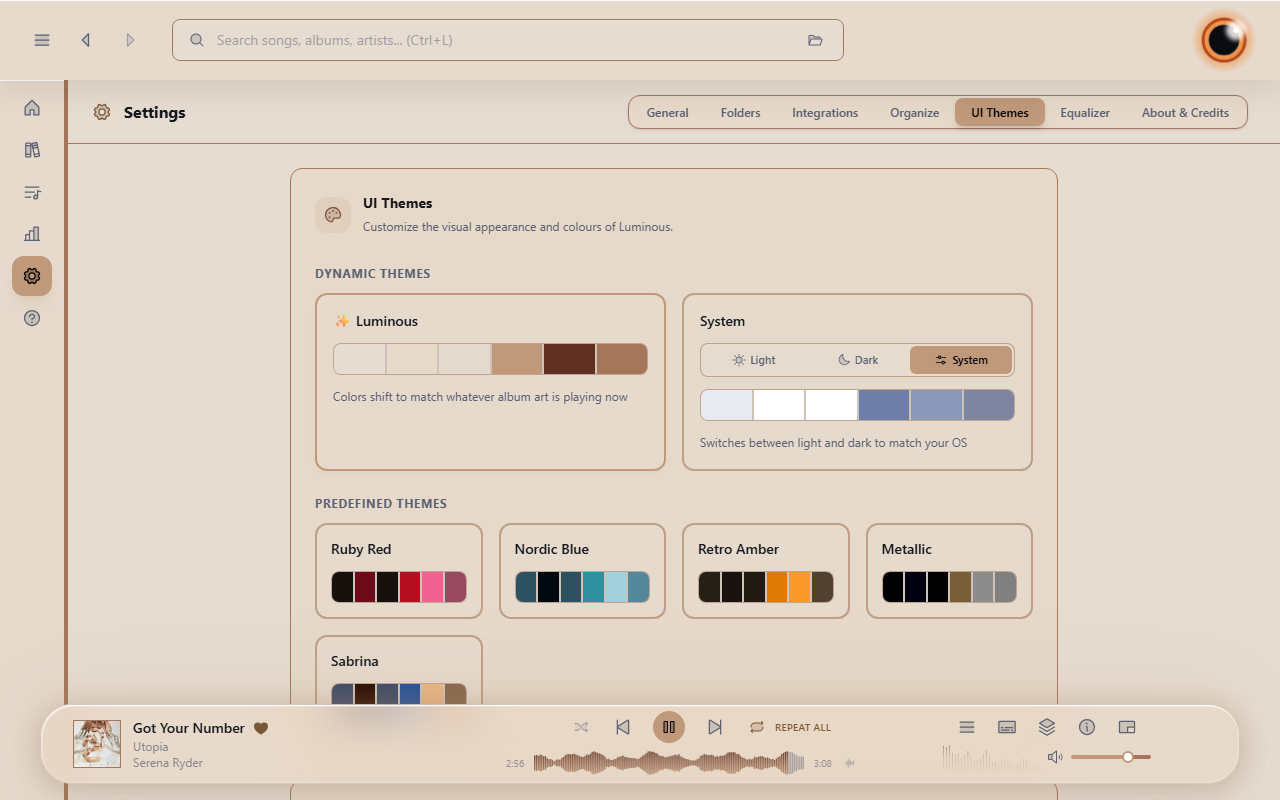
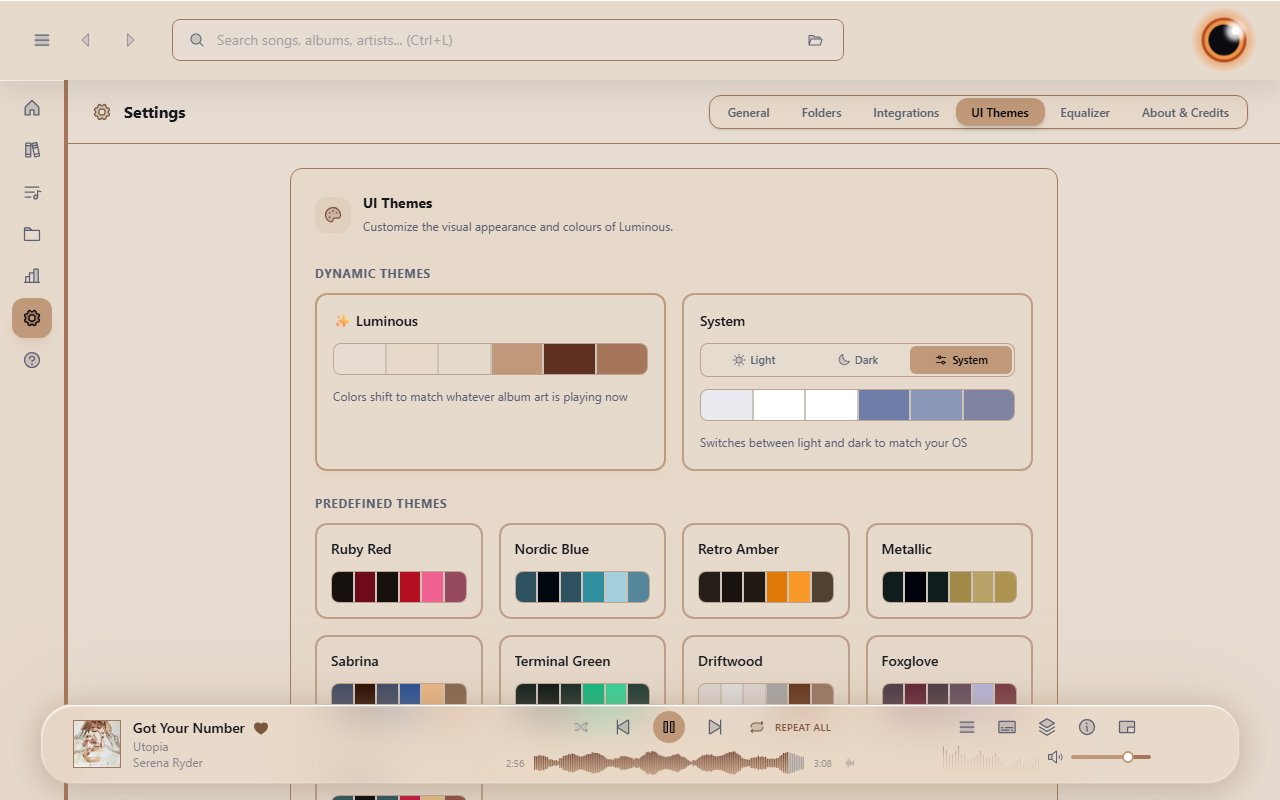
feat: refresh Metallic theme and add four new predefined themes
Updates the Metallic preset to a new gold/dark palette and adds Terminal
Green, Driftwood, Foxglove, and Mothman as predefined themes, with EN/FR
locale entries. Also nudges the Help view's "Restart Feature Walkthrough"
button rightward for breathing room against the scrollbar, and updates
the user guide manuals/screenshots to reflect the new theme lineup.

diff --git a/docs/user-guide/luminous-user-guide-FR.dc.html b/docs/user-guide/luminous-user-guide-FR.dc.html
@@ -31,10 +31,6 @@
         <div style="font-size:12px; color:#a6adc4;">Guide d'utilisation</div>
       </div>
     </div>
-    <div style="position:relative; width:280px;">
-      <svg viewBox="0 0 24 24" fill="none" stroke="#6d7286" stroke-width="2" style="width:14px; height:14px; position:absolute; left:13px; top:50%; transform:translateY(-50%);"><circle cx="11" cy="11" r="7"></circle><path d="M21 21l-4.3-4.3"></path></svg>
-      <input value="{{ query }}" onChange="{{ onQueryChange }}" placeholder="Rechercher un sujet" style="width:100%; box-sizing:border-box; background:#101218; border:1px solid #2c2f3c; border-radius:9999px; padding:9px 14px 9px 34px; font-size:13px; color:#f1f3f8; outline:none; font-family:'Inter',sans-serif;">
-    </div>
   </div>
 
   <div style="display:flex; align-items:flex-start; max-width:1360px; margin:0 auto;">
@@ -445,7 +441,7 @@
         <div style="font-size:15px; color:#d5d9e6; line-height:1.75; max-width:640px; margin-bottom:28px;"><b style="color:#f1f3f8;">Nettoyer</b>, en bas de la page, supprime les chansons manquantes, les dossiers vides et les doublons en un clic.</div>
 
         <div style="max-width:640px; border-radius:14px; overflow:hidden; border:1px solid #23262f; margin-bottom:28px;">
-          <image-slot id="organize-overview-fr" shape="rect" fit="contain" style="height:auto; aspect-ratio:1280/1500;" placeholder="Page Organiser"></image-slot>
+          <image-slot id="organize-overview-fr" src="screenshots/organize-FR.png?v=1789507200000" shape="rect" fit="contain" style="height:auto; aspect-ratio:1280/1500;" placeholder="Page Organiser"></image-slot>
         </div>
 
         <div style="font-size:11px; font-weight:700; letter-spacing:0.08em; text-transform:uppercase; color:#6f7ea9; margin-bottom:10px;">Variables de nommage des fichiers</div>
@@ -516,7 +512,7 @@
         <div style="font-size:15px; color:#d5d9e6; line-height:1.75; max-width:640px; margin-bottom:20px;">Pochette dynamique est aussi une excellente façon de découvrir de nouveaux thèmes — quand la pochette d'une chanson tombe sur une combinaison qui vous plaît, enregistrez-la comme Thème personnalisé pour la garder.</div>
         <div style="font-size:15px; color:#d5d9e6; line-height:1.75; max-width:640px; margin-bottom:28px;">Vous voulez un contrôle total? Le créateur de thème personnalisé vous permet de définir vos propres couleurs de A à Z.</div>
         <div style="max-width:640px; border-radius:14px; overflow:hidden; border:1px solid #23262f;">
-          <image-slot id="themes-fr" src="screenshots/themes-FR.png?v=1788000000000" shape="rect" fit="contain" style="height:auto; aspect-ratio:1280/800;" placeholder="Sélecteur de thème"></image-slot>
+          <image-slot id="themes-fr" src="screenshots/themes-FR.png?v=1789507200000" shape="rect" fit="contain" style="height:auto; aspect-ratio:1280/800;" placeholder="Sélecteur de thème"></image-slot>
         </div>
       </sc-if>
 

diff --git a/src/lib/stores/theme.svelte.ts b/src/lib/stores/theme.svelte.ts
@@ -154,14 +154,14 @@ const NORDIC_BLUE_COLORS: ThemeColors = {
 };
 
 const METALLIC_COLORS: ThemeColors = {
-  "bg-main": "#000000",
-  "bg-sidebar": "#000010",
-  "bg-playerbar": "#000000",
-  "color-accent": "#775F37",
-  "color-accent-hover": "#8C8C8C",
+  "bg-main": "#101d1d",
+  "bg-sidebar": "#00020b",
+  "bg-playerbar": "#101d1d",
+  "color-accent": "#a18a47",
+  "color-accent-hover": "#b7a267",
   "color-text-primary": "#ffffff",
   "color-text-secondary": "#e2e8f0",
-  "color-border": "#808080"
+  "color-border": "#af9350"
 };
 
 const SABRINA_COLORS: ThemeColors = {
@@ -173,6 +173,56 @@ const SABRINA_COLORS: ThemeColors = {
   "color-text-primary": "#ffffff",
   "color-text-secondary": "#e2e8f0",
   "color-border": "#85674C"
+};
+
+const TERMINAL_GREEN_COLORS: ThemeColors = {
+  "bg-main": "#0f1f1d",
+  "bg-sidebar": "#091514",
+  "bg-playerbar": "#152a27",
+  "color-accent": "#10b981",
+  "color-accent-hover": "#34d399",
+  "color-text-primary": "#f0fdfa",
+  "color-text-secondary": "#99f6e4",
+  "color-border": "#1e3a35"
+};
+
+/**
+ * color-text-secondary is darkened slightly from the source palette's
+ * #5a6072 (L 0.118) to #565c6e (L 0.108) — the original fell just under
+ * WCAG AA (4.37:1) against bg-main/bg-playerbar's #ddd6d4 (4.5:1 required);
+ * this is the minimal HSL-lightness nudge needed to clear it.
+ */
+const DRIFTWOOD_COLORS: ThemeColors = {
+  "bg-main": "#ddd6d4",
+  "bg-sidebar": "#dfdfdf",
+  "bg-playerbar": "#ddd6d4",
+  "color-accent": "#a6a6a6",
+  "color-accent-hover": "#62361e",
+  "color-text-primary": "#16181d",
+  "color-text-secondary": "#565c6e",
+  "color-border": "#997766"
+};
+
+const FOXGLOVE_COLORS: ThemeColors = {
+  "bg-main": "#4a3948",
+  "bg-sidebar": "#602336",
+  "bg-playerbar": "#4a3948",
+  "color-accent": "#654e62",
+  "color-accent-hover": "#b4b7db",
+  "color-text-primary": "#ffffff",
+  "color-text-secondary": "#e2e8f0",
+  "color-border": "#783a46"
+};
+
+const MOTHMAN_COLORS: ThemeColors = {
+  "bg-main": "#2a535e",
+  "bg-sidebar": "#000308",
+  "bg-playerbar": "#2a535e",
+  "color-accent": "#c6133d",
+  "color-accent-hover": "#e2bd86",
+  "color-text-primary": "#ffffff",
+  "color-text-secondary": "#e2e8f0",
+  "color-border": "#904d46"
 };
 
 export const PREDEFINED_THEMES: Theme[] = [
@@ -219,6 +269,26 @@ export const PREDEFINED_THEMES: Theme[] = [
     id: "sabrina",
     name: "Sabrina",
     colors: { ...SABRINA_COLORS }
+  },
+  {
+    id: "terminal-green",
+    name: "Terminal Green",
+    colors: { ...TERMINAL_GREEN_COLORS }
+  },
+  {
+    id: "driftwood",
+    name: "Driftwood",
+    colors: { ...DRIFTWOOD_COLORS }
+  },
+  {
+    id: "foxglove",
+    name: "Foxglove",
+    colors: { ...FOXGLOVE_COLORS }
+  },
+  {
+    id: "mothman",
+    name: "Mothman",
+    colors: { ...MOTHMAN_COLORS }
   }
 ];
 

diff --git a/docs/user-guide/luminous-user-guide-EN.dc.html b/docs/user-guide/luminous-user-guide-EN.dc.html
@@ -31,10 +31,6 @@
         <div style="font-size:12px; color:#a6adc4;">User Guide</div>
       </div>
     </div>
-    <div style="position:relative; width:280px;">
-      <svg viewBox="0 0 24 24" fill="none" stroke="#6d7286" stroke-width="2" style="width:14px; height:14px; position:absolute; left:13px; top:50%; transform:translateY(-50%);"><circle cx="11" cy="11" r="7"></circle><path d="M21 21l-4.3-4.3"></path></svg>
-      <input value="{{ query }}" onChange="{{ onQueryChange }}" placeholder="Search topics" style="width:100%; box-sizing:border-box; background:#101218; border:1px solid #2c2f3c; border-radius:9999px; padding:9px 14px 9px 34px; font-size:13px; color:#f1f3f8; outline:none; font-family:'Inter',sans-serif;">
-    </div>
   </div>
 
   <div style="display:flex; align-items:flex-start; max-width:1360px; margin:0 auto;">
@@ -447,7 +443,7 @@
         <div style="font-size:15px; color:#d5d9e6; line-height:1.75; max-width:640px; margin-bottom:28px;"><b style="color:#f1f3f8;">Clean Up</b>, at the bottom of the page, removes missing songs, empty folders, and duplicate entries in one click.</div>
 
         <div style="max-width:640px; border-radius:14px; overflow:hidden; border:1px solid #23262f; margin-bottom:28px;">
-          <image-slot id="organize-overview" shape="rect" fit="contain" style="height:auto; aspect-ratio:1280/1500;" placeholder="Organize page"></image-slot>
+          <image-slot id="organize-overview" src="screenshots/organize-EN.png?v=1789507200000" shape="rect" fit="contain" style="height:auto; aspect-ratio:1280/1500;" placeholder="Organize page"></image-slot>
         </div>
 
         <div style="font-size:11px; font-weight:700; letter-spacing:0.08em; text-transform:uppercase; color:#6f7ea9; margin-bottom:10px;">File naming variables</div>
@@ -519,7 +515,7 @@
         <div style="font-size:15px; color:#d5d9e6; line-height:1.75; max-width:640px; margin-bottom:20px;">Dynamic Artwork doubles as a great way to discover new themes — when a song's artwork lands on a combination you like, save it as a Custom Theme to keep it around.</div>
         <div style="font-size:15px; color:#d5d9e6; line-height:1.75; max-width:640px; margin-bottom:28px;">Want full control? The Custom Theme Builder lets you set your own colors from scratch.</div>
         <div style="max-width:640px; border-radius:14px; overflow:hidden; border:1px solid #23262f;">
-          <image-slot id="themes" src="screenshots/themes-EN.png?v=1788000000000" shape="rect" fit="contain" style="height:auto; aspect-ratio:1280/800;" placeholder="Theme picker"></image-slot>
+          <image-slot id="themes" src="screenshots/themes-EN.png?v=1789507200000" shape="rect" fit="contain" style="height:auto; aspect-ratio:1280/800;" placeholder="Theme picker"></image-slot>
         </div>
       </sc-if>
 

diff --git a/src/lib/components/HelpView.svelte b/src/lib/components/HelpView.svelte
@@ -14,7 +14,7 @@
       <LoadingSpinner label={i18n.t('help.loading', {}, "Loading user guide...")} />
     </div>
   {/if}
-  <div class="absolute top-4 right-4 z-20">
+  <div class="absolute top-4 right-6 z-20">
     <Button onclick={() => walkthroughStore.start()} variant="secondary" size="sm">
       <Compass class="w-3.5 h-3.5" />
       {i18n.t('walkthrough.restartTour', {}, 'Restart Feature Walkthrough')}

diff --git a/src/lib/locales/fr.ts b/src/lib/locales/fr.ts
@@ -996,7 +996,11 @@ export const fr = {
     "nordic-blue": "Bleu nordique",
     "retro-amber": "Ambre rétro",
     metallic: "Métallique",
-    sabrina: "Sabrina"
+    sabrina: "Sabrina",
+    "terminal-green": "Vert terminal",
+    driftwood: "Bois flotté",
+    foxglove: "Digitale",
+    mothman: "Mothman"
   },
   artistDetail: {
     backToArtists: "Voir les artistes",

diff --git a/src/lib/locales/en.ts b/src/lib/locales/en.ts
@@ -962,7 +962,11 @@ export const en = {
     "nordic-blue": "Nordic Blue",
     "retro-amber": "Retro Amber",
     metallic: "Metallic",
-    sabrina: "Sabrina"
+    sabrina: "Sabrina",
+    "terminal-green": "Terminal Green",
+    driftwood: "Driftwood",
+    foxglove: "Foxglove",
+    mothman: "Mothman"
   },
   artistDetail: {
     backToArtists: "View Artists",
